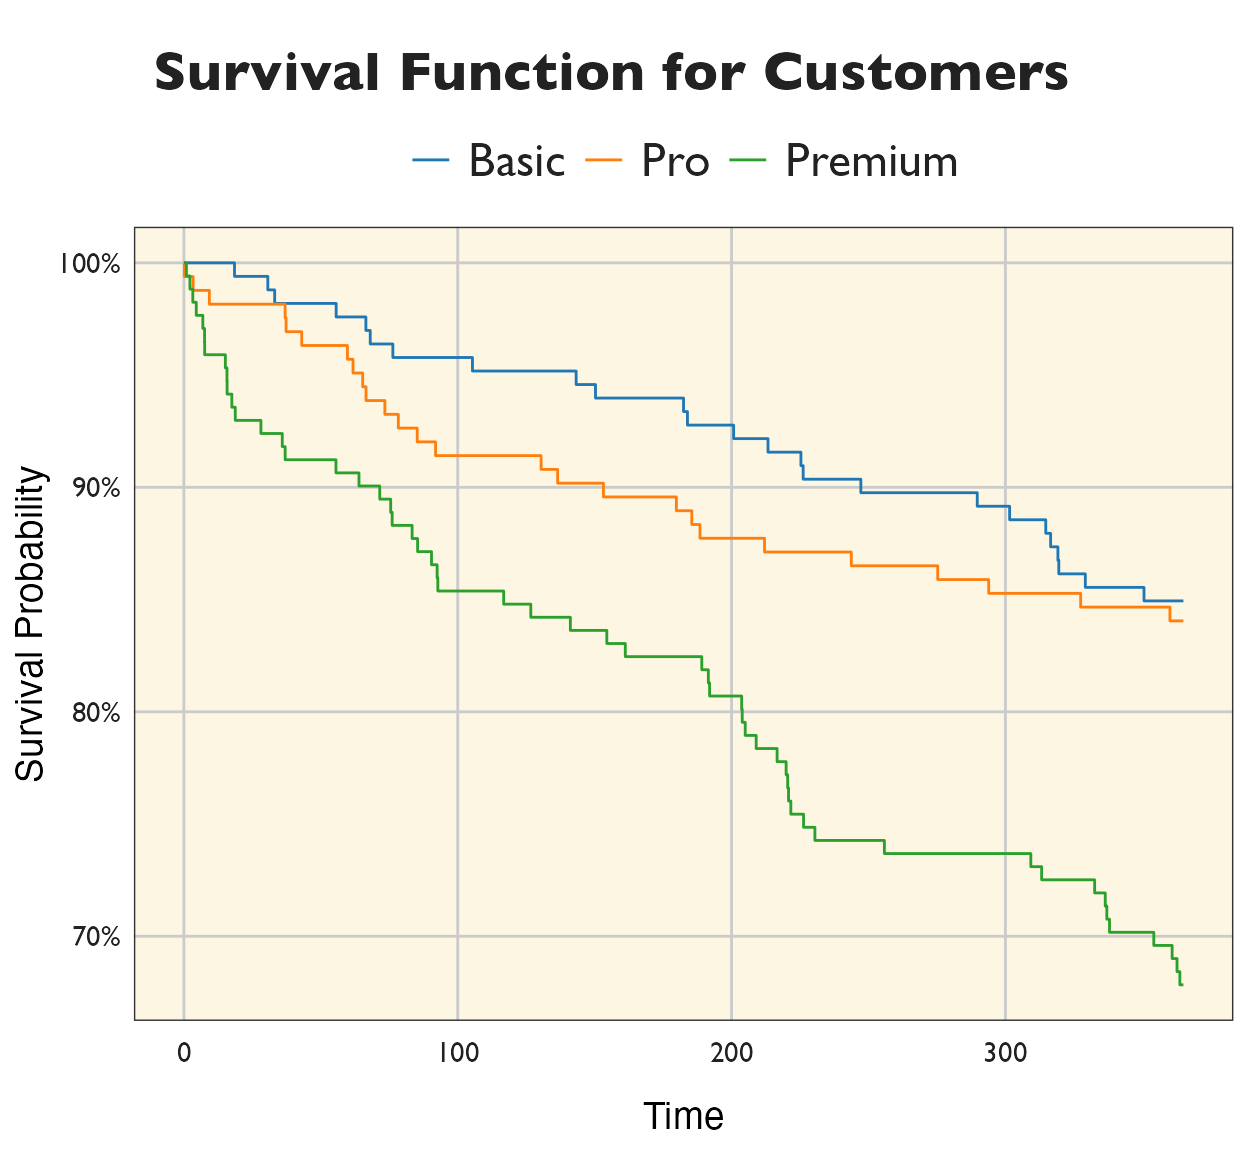
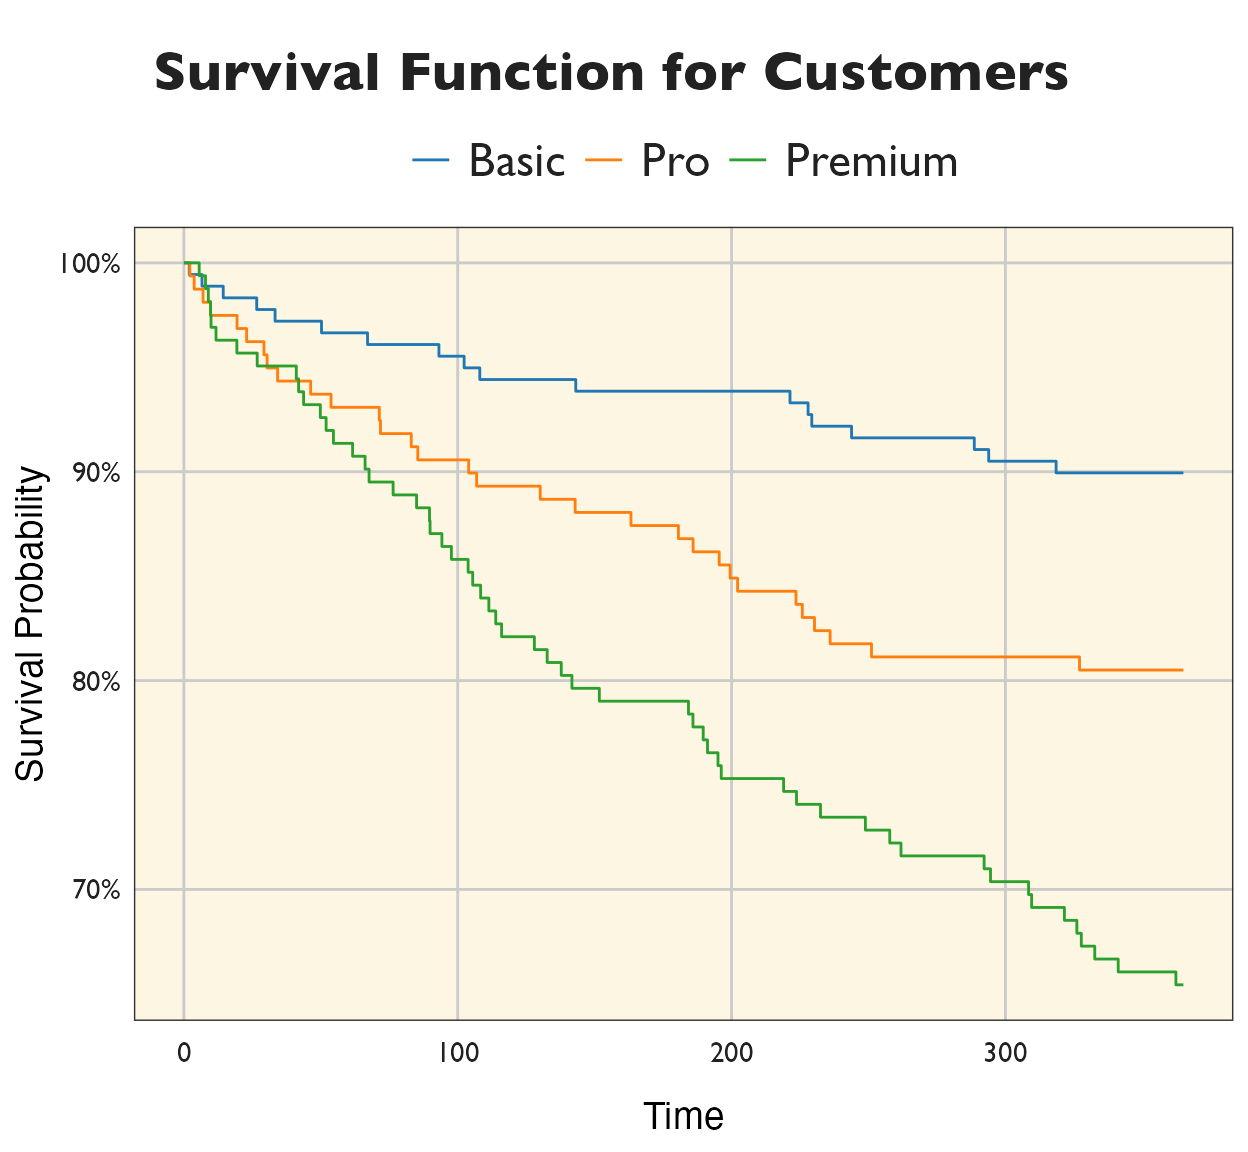
New run

diff --git a/_posts/2025-08-14-coxph/coxph.html b/_posts/2025-08-14-coxph/coxph.html
@@ -1596,10 +1596,10 @@ code span.wa { color: #5e5e5e; font-style: italic; } /* Warning */
 
 </div>
 <div class="layout-chunk" data-layout="l-body">
-<pre><code>[1] &quot;Mean C-index across 5 folds: 0.634&quot;</code></pre>
-<pre><code>[1] &quot;Standard Deviation of C-index: 0.046&quot;</code></pre>
+<pre><code>[1] &quot;Mean C-index across 5 folds: 0.684&quot;</code></pre>
+<pre><code>[1] &quot;Standard Deviation of C-index: 0.062&quot;</code></pre>
 </div>
-<p>A C-index of 0.63 indicates that the model has decent discriminatory power, correctly predicting which of a pair of subscribers is at a higher risk of churning approximately 63`% of the time. While this score is better than random chance (0.5), it suggests that adding more user characteristics that impact churn possibly would improve the model’s predictive ability. In a real-world scenario, I would prioritize improving this power.</p>
+<p>A C-index of 0.68 indicates that the model has decent discriminatory power, correctly predicting which of a pair of subscribers is at a higher risk of churning approximately 68`% of the time. While this score is better than random chance (0.5), it suggests that adding more user characteristics that impact churn possibly would improve the model’s predictive ability. In a real-world scenario, I would prioritize improving this power.</p>
 <h2 id="final-model">Final Model:</h2>
 <p>Therefore, I ran the model for the whole data in order to analyze the variables coefficients (in other words identify what is causing churn):</p>
 <div class="layout-chunk" data-layout="l-body">
@@ -1607,39 +1607,39 @@ code span.wa { color: #5e5e5e; font-style: italic; } /* Warning */
 coxph(formula = Surv(eventtime, churn_event) ~ subscription_tier_factor + 
     content_rating + weekly_active_hours, data = sim_data_final)
 
-  n= 500, number of events= 106 
+  n= 500, number of events= 105 
 
                                     coef exp(coef) se(coef)      z
-subscription_tier_factorPro      0.08116   1.08455  0.28026  0.290
-subscription_tier_factorPremium  0.86251   2.36909  0.24132  3.574
-content_rating                  -0.38122   0.68303  0.21880 -1.742
-weekly_active_hours             -0.07230   0.93025  0.02454 -2.947
+subscription_tier_factorPro      0.73705   2.08976  0.29642  2.487
+subscription_tier_factorPremium  1.47474   4.36990  0.27209  5.420
+content_rating                  -0.89303   0.40942  0.19573 -4.563
+weekly_active_hours             -0.06238   0.93953  0.02561 -2.435
                                 Pr(&gt;|z|)    
-subscription_tier_factorPro     0.772121    
-subscription_tier_factorPremium 0.000351 ***
-content_rating                  0.081447 .  
-weekly_active_hours             0.003211 ** 
+subscription_tier_factorPro       0.0129 *  
+subscription_tier_factorPremium 5.96e-08 ***
+content_rating                  5.05e-06 ***
+weekly_active_hours               0.0149 *  
 ---
 Signif. codes:  0 &#39;***&#39; 0.001 &#39;**&#39; 0.01 &#39;*&#39; 0.05 &#39;.&#39; 0.1 &#39; &#39; 1
 
                                 exp(coef) exp(-coef) lower .95
-subscription_tier_factorPro        1.0845     0.9220    0.6262
-subscription_tier_factorPremium    2.3691     0.4221    1.4763
-content_rating                     0.6830     1.4641    0.4448
-weekly_active_hours                0.9303     1.0750    0.8866
+subscription_tier_factorPro        2.0898     0.4785    1.1689
+subscription_tier_factorPremium    4.3699     0.2288    2.5637
+content_rating                     0.4094     2.4425    0.2790
+weekly_active_hours                0.9395     1.0644    0.8935
                                 upper .95
-subscription_tier_factorPro        1.8785
-subscription_tier_factorPremium    3.8019
-content_rating                     1.0488
-weekly_active_hours                0.9761
+subscription_tier_factorPro        3.7360
+subscription_tier_factorPremium    7.4486
+content_rating                     0.6009
+weekly_active_hours                0.9879
 
-Concordance= 0.655  (se = 0.025 )
-Likelihood ratio test= 29.17  on 4 df,   p=7e-06
-Wald test            = 29.42  on 4 df,   p=6e-06
-Score (logrank) test = 30.59  on 4 df,   p=4e-06</code></pre>
+Concordance= 0.696  (se = 0.026 )
+Likelihood ratio test= 56.84  on 4 df,   p=1e-11
+Wald test            = 54.5  on 4 df,   p=4e-11
+Score (logrank) test = 58.34  on 4 df,   p=6e-12</code></pre>
 </div>
-<p>Based on the model’s output, a higher subscription tier is a statistically significant factor that increases a subscriber’s risk of churning, while a higher content rating reduces it. Specifically, a Pro-tier subscriber has a churn risk that is 8% higher than a Basic-tier subscriber, and a Premium-tier subscriber’s risk is 137% higher. For every one-point increase in a subscriber’s content rating, the risk of churning decreases by approximately 32% (0.683).
-Weekly active hours were a statistically significant predictor of churn. For every one-hour increase, the risk of churning decreases by approximately 7%. (p = 0.003)</p>
+<p>Based on the model’s output, a higher subscription tier is a statistically significant factor that increases a subscriber’s risk of churning, while a higher content rating reduces it. Specifically, a Pro-tier subscriber has a churn risk that is 109% higher than a Basic-tier subscriber, and a Premium-tier subscriber’s risk is 337% higher. For every one-point increase in a subscriber’s content rating, the risk of churning decreases by approximately 59% (0.4094).
+Weekly active hours were a statistically significant predictor of churn. For every one-hour increase, the risk of churning decreases by approximately 6%. (p = 0.015)</p>
 <p>With this model now it is possible to calculate a churn score for each customer, which can be used to prioritize retention efforts. Subscribers with higher churn scores are at greater risk of leaving the streaming service, allowing for targeted interventions to improve their experience and reduce churn.</p>
 <h2 id="conclusion">Conclusion</h2>
 <p>While the model’s results were a direct reflection of the simulated data, the primary objective of this post was to explore the statistical methodology itself. It was clear that this is a useful approach for generating insights from covariates by quantifying the influence of various factors on churn, which enables more informed and impactful decision-making.</p>

diff --git a/docs/posts/2025-08-14-coxph/index.html b/docs/posts/2025-08-14-coxph/index.html
@@ -2530,10 +2530,10 @@ d-appendix d-footnote-list a.footnote-backlink {
 
 </div>
 <div class="layout-chunk" data-layout="l-body">
-<pre><code>[1] &quot;Mean C-index across 5 folds: 0.634&quot;</code></pre>
-<pre><code>[1] &quot;Standard Deviation of C-index: 0.046&quot;</code></pre>
+<pre><code>[1] &quot;Mean C-index across 5 folds: 0.684&quot;</code></pre>
+<pre><code>[1] &quot;Standard Deviation of C-index: 0.062&quot;</code></pre>
 </div>
-<p>A C-index of 0.63 indicates that the model has decent discriminatory power, correctly predicting which of a pair of subscribers is at a higher risk of churning approximately 63`% of the time. While this score is better than random chance (0.5), it suggests that adding more user characteristics that impact churn possibly would improve the model’s predictive ability. In a real-world scenario, I would prioritize improving this power.</p>
+<p>A C-index of 0.68 indicates that the model has decent discriminatory power, correctly predicting which of a pair of subscribers is at a higher risk of churning approximately 68`% of the time. While this score is better than random chance (0.5), it suggests that adding more user characteristics that impact churn possibly would improve the model’s predictive ability. In a real-world scenario, I would prioritize improving this power.</p>
 <h2 id="final-model">Final Model:</h2>
 <p>Therefore, I ran the model for the whole data in order to analyze the variables coefficients (in other words identify what is causing churn):</p>
 <div class="layout-chunk" data-layout="l-body">
@@ -2541,39 +2541,39 @@ d-appendix d-footnote-list a.footnote-backlink {
 coxph(formula = Surv(eventtime, churn_event) ~ subscription_tier_factor + 
     content_rating + weekly_active_hours, data = sim_data_final)
 
-  n= 500, number of events= 106 
+  n= 500, number of events= 105 
 
                                     coef exp(coef) se(coef)      z
-subscription_tier_factorPro      0.08116   1.08455  0.28026  0.290
-subscription_tier_factorPremium  0.86251   2.36909  0.24132  3.574
-content_rating                  -0.38122   0.68303  0.21880 -1.742
-weekly_active_hours             -0.07230   0.93025  0.02454 -2.947
+subscription_tier_factorPro      0.73705   2.08976  0.29642  2.487
+subscription_tier_factorPremium  1.47474   4.36990  0.27209  5.420
+content_rating                  -0.89303   0.40942  0.19573 -4.563
+weekly_active_hours             -0.06238   0.93953  0.02561 -2.435
                                 Pr(&gt;|z|)    
-subscription_tier_factorPro     0.772121    
-subscription_tier_factorPremium 0.000351 ***
-content_rating                  0.081447 .  
-weekly_active_hours             0.003211 ** 
+subscription_tier_factorPro       0.0129 *  
+subscription_tier_factorPremium 5.96e-08 ***
+content_rating                  5.05e-06 ***
+weekly_active_hours               0.0149 *  
 ---
 Signif. codes:  0 &#39;***&#39; 0.001 &#39;**&#39; 0.01 &#39;*&#39; 0.05 &#39;.&#39; 0.1 &#39; &#39; 1
 
                                 exp(coef) exp(-coef) lower .95
-subscription_tier_factorPro        1.0845     0.9220    0.6262
-subscription_tier_factorPremium    2.3691     0.4221    1.4763
-content_rating                     0.6830     1.4641    0.4448
-weekly_active_hours                0.9303     1.0750    0.8866
+subscription_tier_factorPro        2.0898     0.4785    1.1689
+subscription_tier_factorPremium    4.3699     0.2288    2.5637
+content_rating                     0.4094     2.4425    0.2790
+weekly_active_hours                0.9395     1.0644    0.8935
                                 upper .95
-subscription_tier_factorPro        1.8785
-subscription_tier_factorPremium    3.8019
-content_rating                     1.0488
-weekly_active_hours                0.9761
+subscription_tier_factorPro        3.7360
+subscription_tier_factorPremium    7.4486
+content_rating                     0.6009
+weekly_active_hours                0.9879
 
-Concordance= 0.655  (se = 0.025 )
-Likelihood ratio test= 29.17  on 4 df,   p=7e-06
-Wald test            = 29.42  on 4 df,   p=6e-06
-Score (logrank) test = 30.59  on 4 df,   p=4e-06</code></pre>
+Concordance= 0.696  (se = 0.026 )
+Likelihood ratio test= 56.84  on 4 df,   p=1e-11
+Wald test            = 54.5  on 4 df,   p=4e-11
+Score (logrank) test = 58.34  on 4 df,   p=6e-12</code></pre>
 </div>
-<p>Based on the model’s output, a higher subscription tier is a statistically significant factor that increases a subscriber’s risk of churning, while a higher content rating reduces it. Specifically, a Pro-tier subscriber has a churn risk that is 8% higher than a Basic-tier subscriber, and a Premium-tier subscriber’s risk is 137% higher. For every one-point increase in a subscriber’s content rating, the risk of churning decreases by approximately 32% (0.683).
-Weekly active hours were a statistically significant predictor of churn. For every one-hour increase, the risk of churning decreases by approximately 7%. (p = 0.003)</p>
+<p>Based on the model’s output, a higher subscription tier is a statistically significant factor that increases a subscriber’s risk of churning, while a higher content rating reduces it. Specifically, a Pro-tier subscriber has a churn risk that is 109% higher than a Basic-tier subscriber, and a Premium-tier subscriber’s risk is 337% higher. For every one-point increase in a subscriber’s content rating, the risk of churning decreases by approximately 59% (0.4094).
+Weekly active hours were a statistically significant predictor of churn. For every one-hour increase, the risk of churning decreases by approximately 6%. (p = 0.015)</p>
 <p>With this model now it is possible to calculate a churn score for each customer, which can be used to prioritize retention efforts. Subscribers with higher churn scores are at greater risk of leaving the streaming service, allowing for targeted interventions to improve their experience and reduce churn.</p>
 <h2 id="conclusion">Conclusion</h2>
 <p>While the model’s results were a direct reflection of the simulated data, the primary objective of this post was to explore the statistical methodology itself. It was clear that this is a useful approach for generating insights from covariates by quantifying the influence of various factors on churn, which enables more informed and impactful decision-making.</p>
